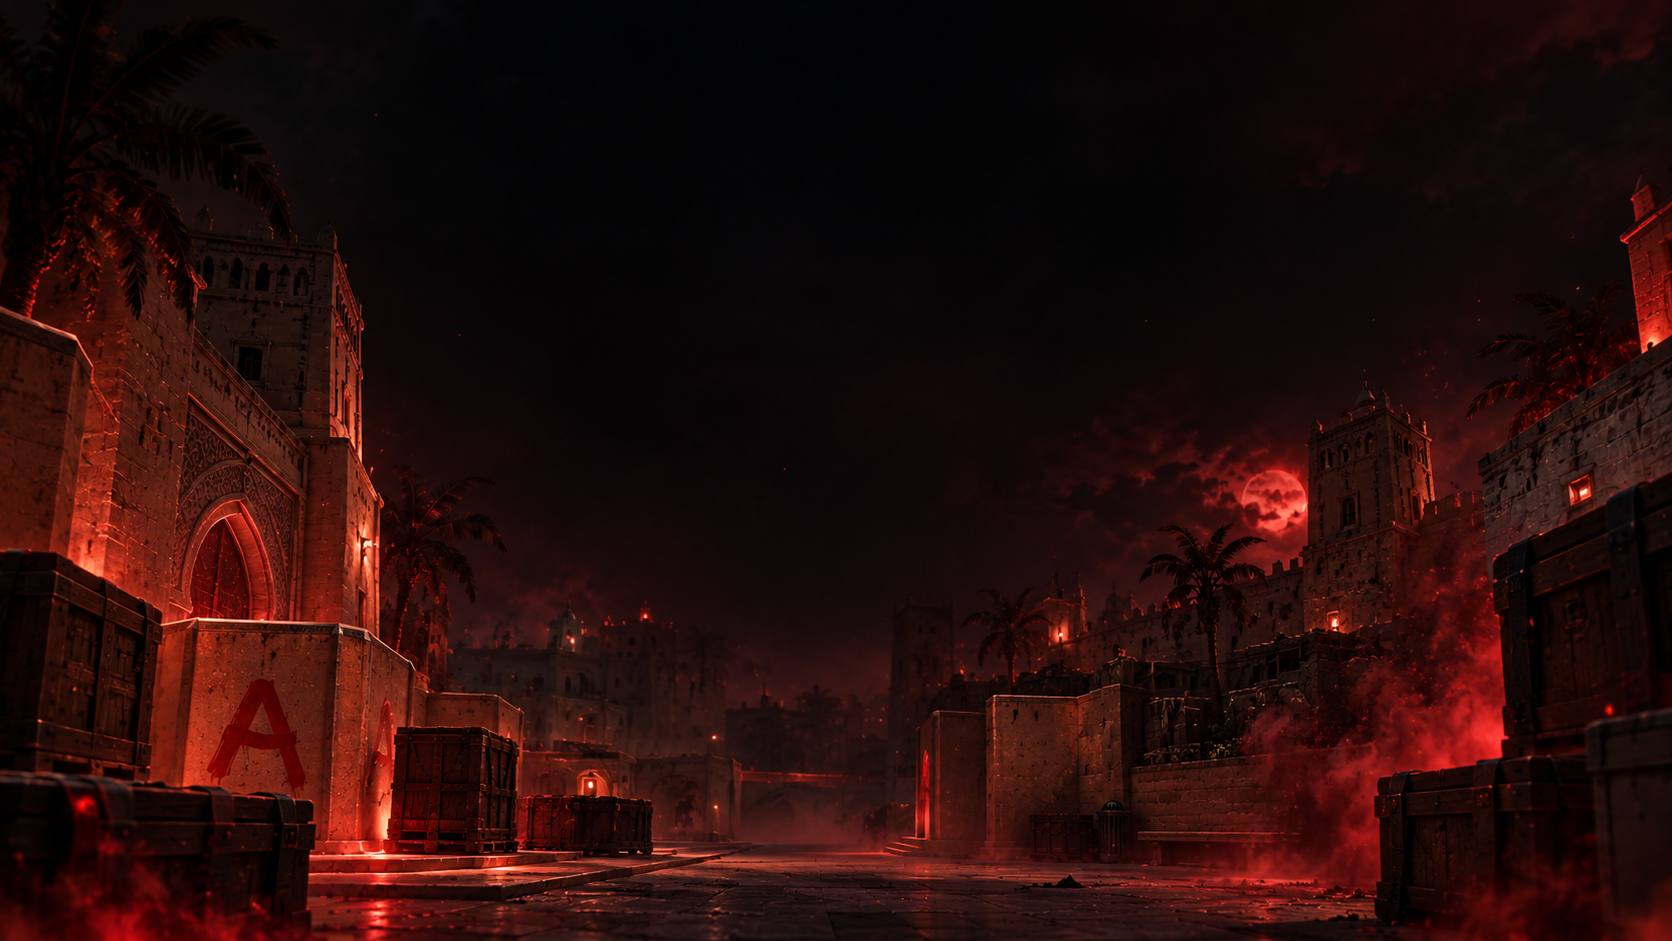
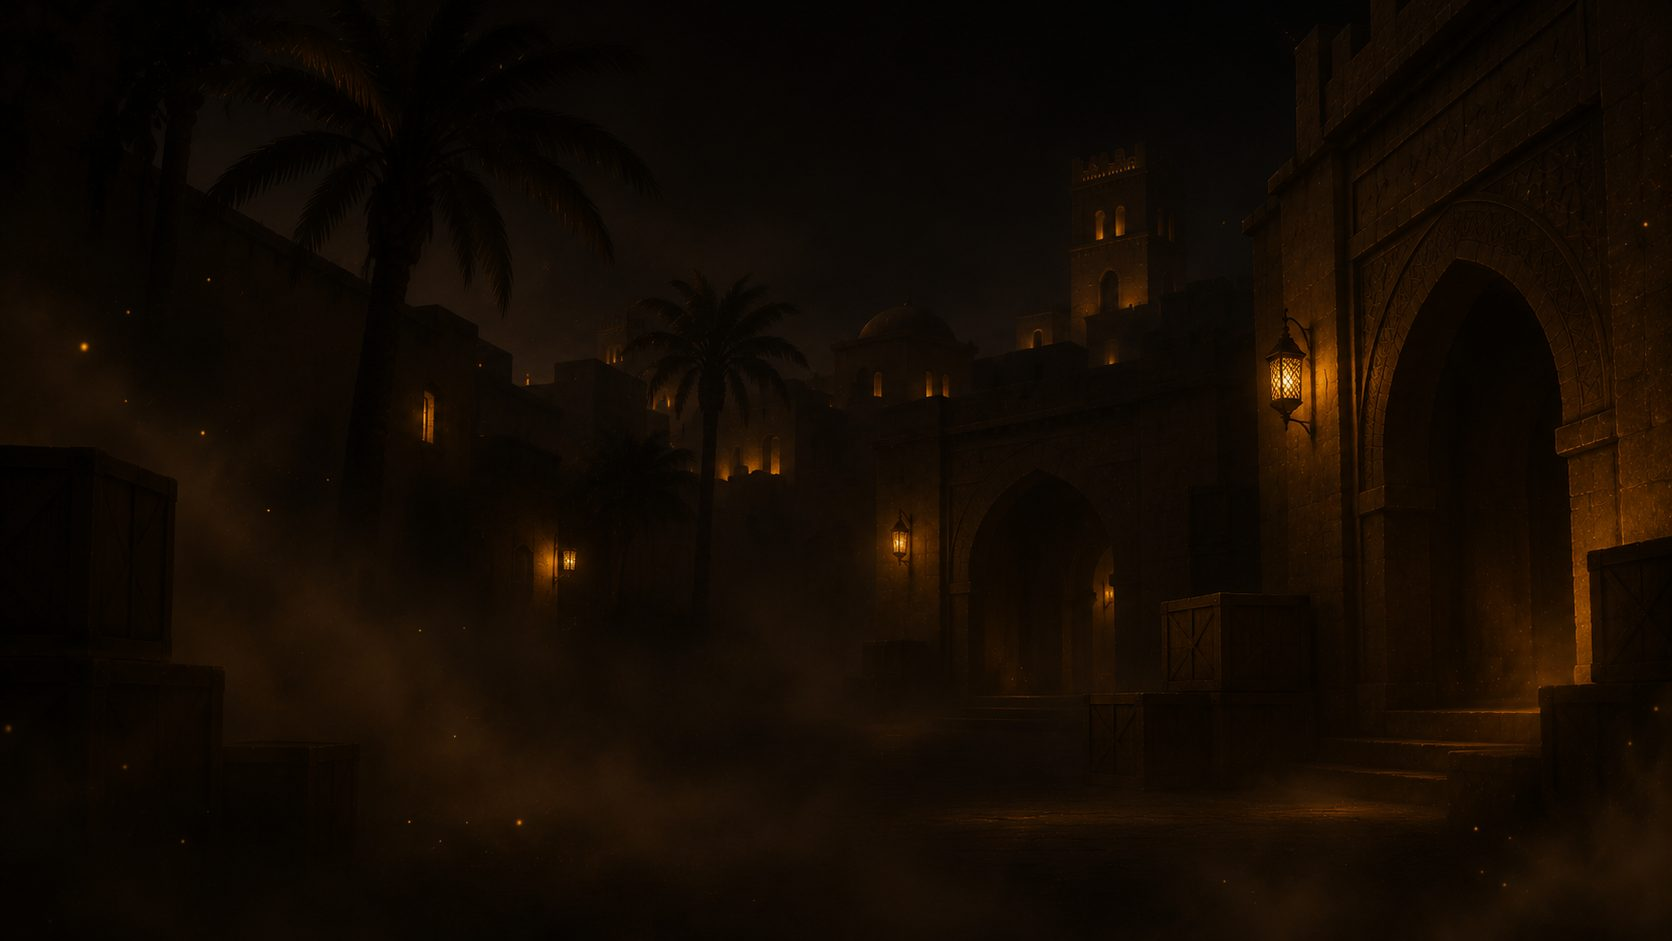
Новый золотой фон сайта
Claude-Session: https://claude.ai/code/session_012xAbwNHTjhA8EXRrYfLwFY

diff --git a/index.html b/index.html
@@ -197,7 +197,7 @@ footer nav{flex-direction:row;gap:16px;flex-wrap:wrap}
   .steam span,.ip code{display:none}
 }
 /* modes */
-:root{--railimg:url(img/rail.jpg?v=48c8b762);--bnr-rating:url(img/banner-rating.jpg?v=19d45884);--bnr-skins:url(img/banner-skins.jpg?v=aa8b622e);--bnr-clans:url(img/banner-clans.jpg?v=e833a368);--bnr-bans:url(img/banner-bans.jpg?v=d6d4509d);--bnr-rules:url(img/banner-rules.jpg?v=543828b4);--bnr-shop:url(img/banner-shop.jpg?v=f25ed758);--bgimg:url(img/bg.jpg?v=f3e70f26);--photo:url(img/public.jpg?v=3cc58889);--card:url(img/card-public.jpg?v=3cc58889)}
+:root{--railimg:url(img/rail.jpg?v=48c8b762);--bnr-rating:url(img/banner-rating.jpg?v=19d45884);--bnr-skins:url(img/banner-skins.jpg?v=aa8b622e);--bnr-clans:url(img/banner-clans.jpg?v=e833a368);--bnr-bans:url(img/banner-bans.jpg?v=d6d4509d);--bnr-rules:url(img/banner-rules.jpg?v=543828b4);--bnr-shop:url(img/banner-shop.jpg?v=f25ed758);--bgimg:url(img/bg.jpg?v=112b55e3);--photo:url(img/public.jpg?v=3cc58889);--card:url(img/card-public.jpg?v=3cc58889)}
 .modes-grid{display:grid;grid-template-columns:repeat(auto-fill,minmax(200px,250px));gap:14px}
 .mode-card{position:relative;aspect-ratio:483/696;border-radius:18px;overflow:hidden;border:1px solid color-mix(in srgb,var(--accent) 55%,var(--line));background:var(--panel-2) var(--card) center/cover;padding:18px 16px;display:flex;flex-direction:column;justify-content:space-between;transition:transform .2s,box-shadow .2s;max-width:100%;box-shadow:0 0 0 0 var(--glow)}
 .mode-card::before{content:"";position:absolute;inset:0;background:linear-gradient(180deg,rgba(0,0,0,.55),transparent 30%,transparent 70%,rgba(0,0,0,.7))}
@@ -859,7 +859,7 @@ footer nav{flex-direction:row;gap:16px;flex-wrap:wrap}
 @media (prefers-reduced-motion:reduce){.t6.god{animation:none}}
 /* ===== спокойная тема: меньше цвета, больше контраста ===== */
 :root{--ink:#0e0c0d;--panel:#161314;--panel-2:#1f1b1d;--line:#2f2a2c;--fg:#f3f0f1;--muted:#b6adb1;--glow:rgba(245,165,36,.10)}
-body{background:linear-gradient(180deg,rgba(14,12,13,.9) 0,rgba(14,12,13,.97) 360px,var(--ink) 700px) fixed,var(--bgimg) center top/cover fixed,var(--ink)}
+body{background:linear-gradient(180deg,rgba(14,12,13,.35) 0,rgba(14,12,13,.55) 45%,rgba(14,12,13,.85) 100%) fixed,var(--bgimg) center/cover fixed,var(--ink)}
 .rail{background:var(--panel);backdrop-filter:none}
 nav a.on{background:var(--panel-2);box-shadow:inset 2px 0 0 var(--accent)}
 nav .tag{background:var(--panel-2);color:var(--muted);border:1px solid var(--line)}
@@ -1486,7 +1486,6 @@ nav a.on{box-shadow:inset 2px 0 0 var(--accent),0 0 22px rgba(245,165,36,.12)}
 nav a.on svg{filter:drop-shadow(0 0 6px rgba(245,165,36,.8))}
 
 /* тёмный фон без красных картинок */
-body{background-image:none!important}
 :root{--railimg:none!important}
 </style>
 </head>
